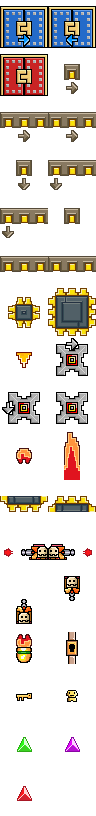
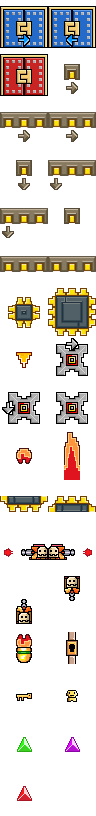
v1.3.0 lost gifts

diff --git a/index.html b/index.html
@@ -5,17 +5,19 @@
   <meta http-equiv="cache-control" content="no-cache">
   <meta http-equiv="pragma" content="no-cache">
   <meta http-equiv="expires" content="0">
-  <title>Pixel Quest Map Editor Test</title>
+  <title>Pixel Quest Map Editor v1.3.0</title>
   <link href="https://fonts.googleapis.com/css2?family=Source+Sans+Pro:wght@400;700&display=swap" rel="stylesheet">
+  <link rel="icon" type="image/x-icon" href="/images/favicon.ico">
 <link rel="stylesheet" href="https://cdnjs.cloudflare.com/ajax/libs/normalize/5.0.0/normalize.min.css">
 <link rel="stylesheet" href="./style.css">
+
 
 </head>
 <body>
 <div class="card">
-   
    <header>
     <h1>Pixel Quest Editor<small class="text-muted"><sub id="editorVersion">version is updated in main.js</sub></small>
+        <input type="checkbox" class='hidden' onchange="lostGiftsToggle(this.checked)"></input>
         <ul class="layers">By Bedrock</ul>
     </h1>
         <div>
@@ -44,9 +46,7 @@
             <label>Level Name: </label>
             <textarea rows=1 cols=40 maxlength=36 require=true placeholder="Input" name="lvlName"></textarea>
             </ul>
-            
         </form>
-        
    </header>
    <div class="card_body">
       <aside>
@@ -102,5 +102,5 @@
       </div>
    </div>
 </div>
-<script src="./main.js?v=1.2.4"></script>
+<script src="./main.js?v=1.3.0"></script>
 </html>

diff --git a/style.css b/style.css
@@ -202,3 +202,65 @@ textarea {
     left: 0;
     background-color: rgb(0, 255, 255, 0.6);
 }
+
+
+input[type=checkbox]{
+    position: relative;
+      cursor: pointer;
+}
+
+
+input[type=checkbox]:before {
+    content: "";
+    display: block;
+    position: absolute;
+    width: 16px;
+    height: 16px;
+    top: -1px;
+    left: -5px;
+    border: 2px solid #737373;
+    background-color: rgb(0, 0, 0);
+}
+
+input[type=checkbox]:checked:after {
+    content: "";
+    display: block;
+    width: 5px;
+    height: 10px;
+    border: solid rgb(0, 255, 255, 1);
+    border-width: 0 2px 2px 0;
+    -webkit-transform: rotate(45deg);
+    -ms-transform: rotate(45deg);
+    transform: rotate(45deg);
+    position: absolute;
+    top: 1px;
+    left: 2px;
+}
+
+
+.hidden[type=checkbox]:before {
+    content: "";
+    display: block;
+    position: absolute;
+    width: 16px;
+    height: 16px;
+    top: 0;
+    left: 0;
+    border: 2px solid #1a1a1a;
+    background-color: rgb(0, 0, 0);
+}
+
+.hidden[type=checkbox]:checked:after {
+    content: "";
+    display: block;
+    width: 5px;
+    height: 10px;
+    border: solid rgb(0, 255, 255, 1);
+    border-width: 0 2px 2px 0;
+    -webkit-transform: rotate(45deg);
+    -ms-transform: rotate(45deg);
+    transform: rotate(45deg);
+    position: absolute;
+    top: 2px;
+    left: 6px;
+}

diff --git a/main.js b/main.js
@@ -18,7 +18,7 @@ var objectSelection = document.querySelector(".object-container_selection");
 var objectImage = document.querySelector("#object-source");
 
 
-var editorVer = '1.2.4';
+var editorVer = '1.3.0';
 document.getElementById("editorVersion").innerHTML = "v" + editorVer;
 var currentSize = [2, 2];
 
@@ -491,5 +491,16 @@ function download(filename) {
 
 function volSwitch(checked){
     showVolumes = checked
+    draw()
+}
+
+function lostGiftsToggle(checked){
+    if(checked){
+        tilesetImage.src = "images/losttilesheet.png";
+        objectImage.src = "images/lostobjectSheet.png";
+    }else{
+        tilesetImage.src = "images/tilesheet.png";
+        objectImage.src = "images/objectSheet.png";
+    }
     draw()
 }

diff --git a/CHANGELOG.md b/CHANGELOG.md
@@ -4,6 +4,16 @@ All notable changes to this project will be documented in this file.
 The format is based on [Keep a Changelog](http://keepachangelog.com/)
 and this project adheres to [Semantic Versioning](http://semver.org/).
 
+## [1.3.0]
+### Added
+- Lost gifts toggle
+- Favicon
+
+### Changed
+- Better looking checkboxes
+- Cleaned up platform sprites
+- Tab now shows correct name
+
 ## [1.2.4]
 ### Changed
 - When holding shift box is Red
